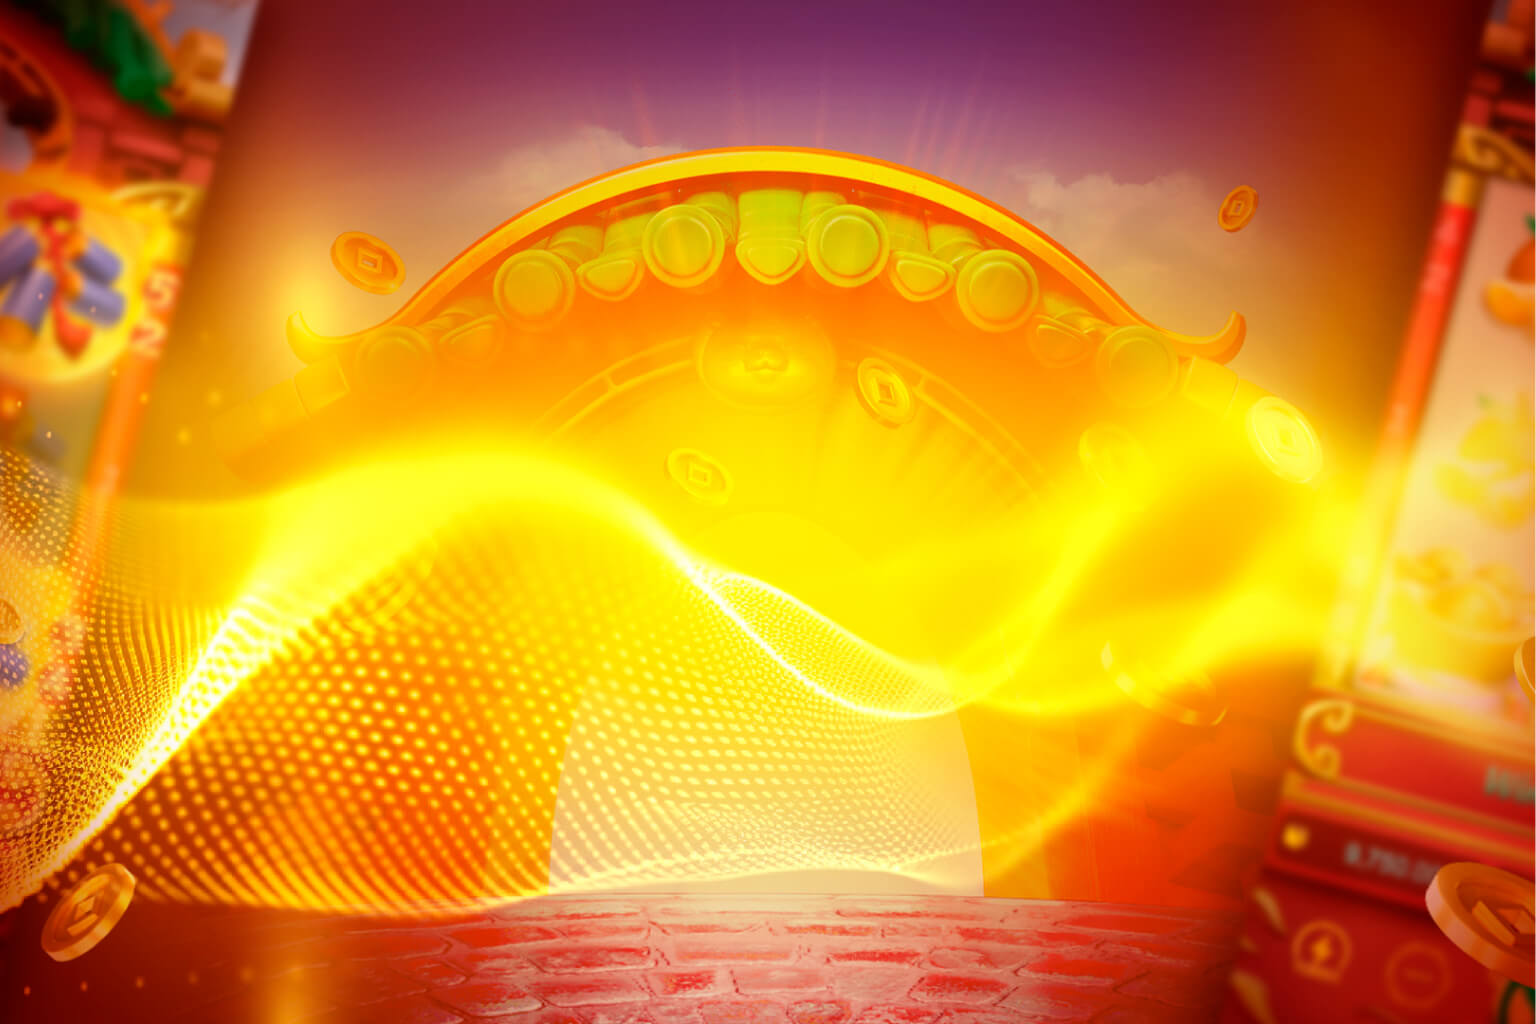
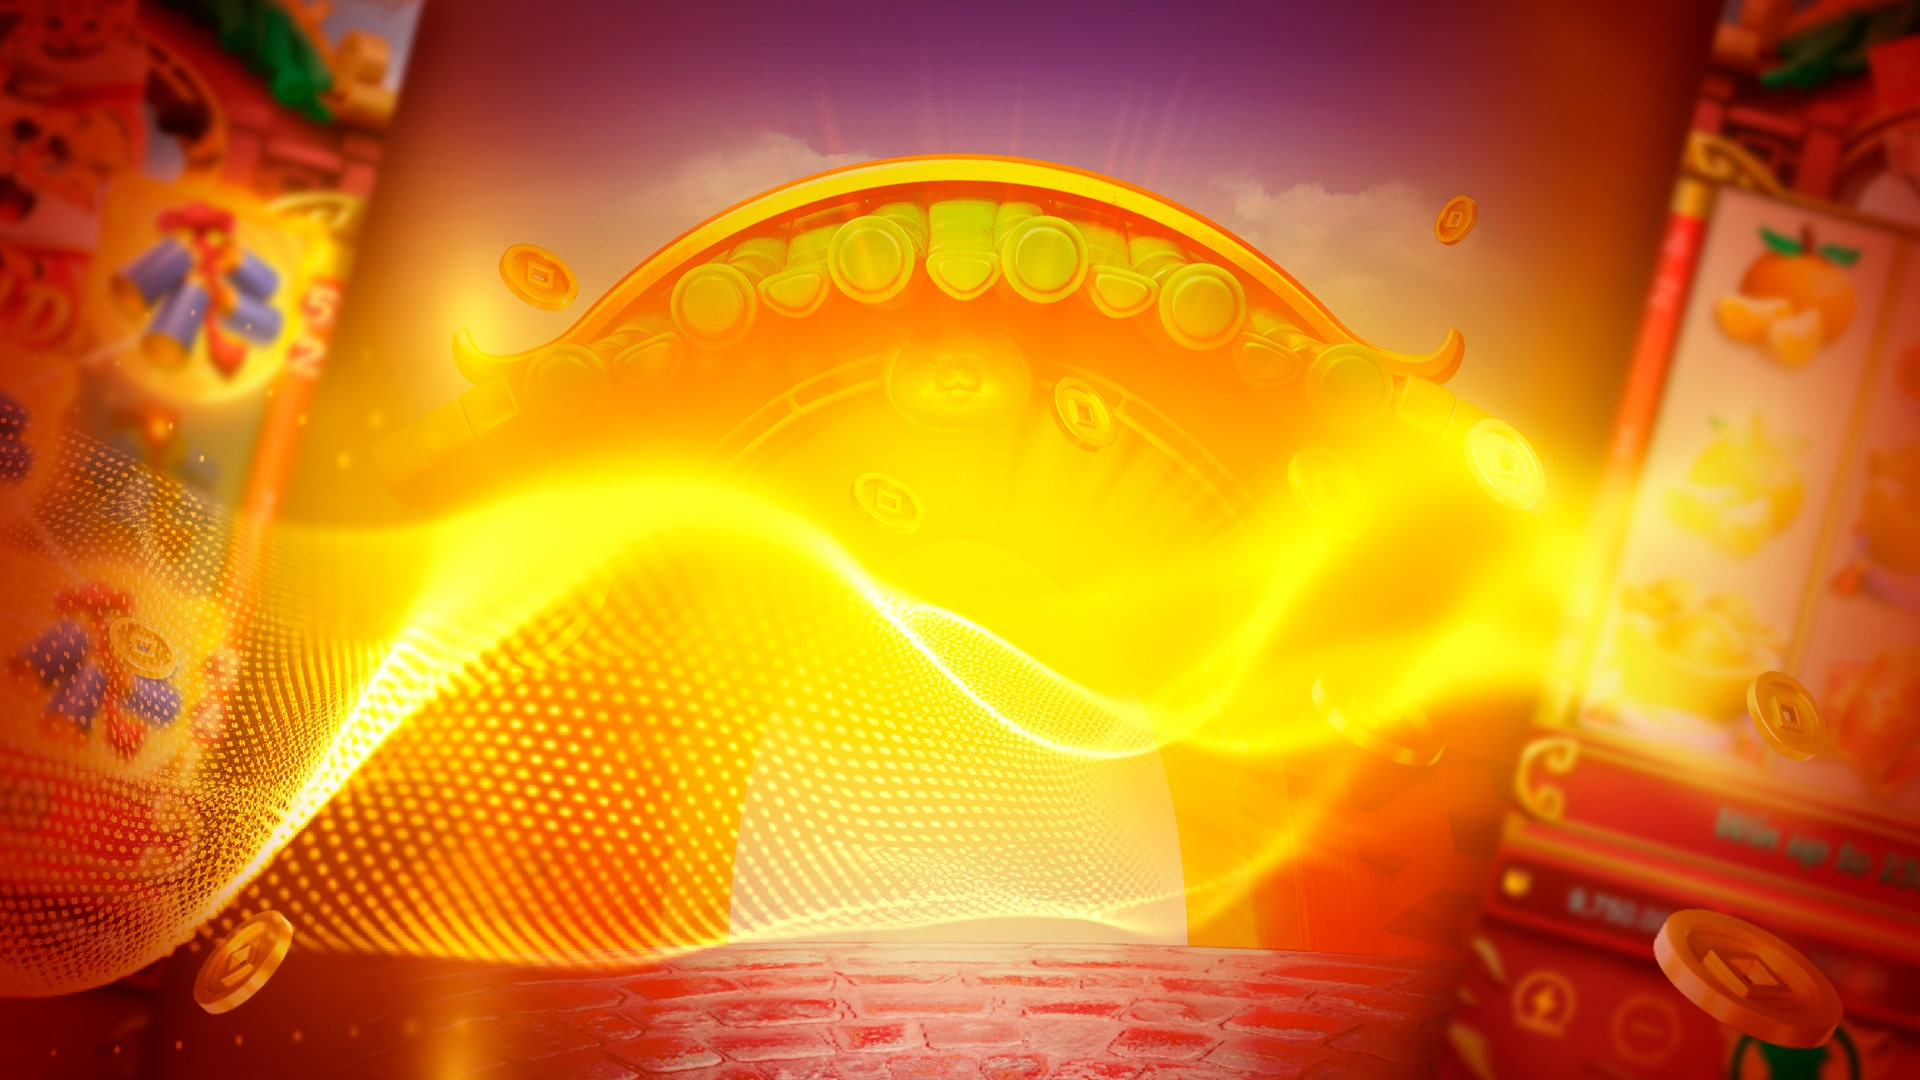
decor

diff --git a/src/styles/components/main-content.scss b/src/styles/components/main-content.scss
@@ -227,65 +227,103 @@
 }
 
 .main__coin-1-decor {
-  --aspect-ratio: 0.884;
+  --aspect-ratio: 1.15;
 
   position: absolute;
-  z-index: var(--z-common-decor);
-  bottom: 7%;
   aspect-ratio: var(--aspect-ratio);
 
-  @include bg-image('/img/decor/coin');
+  @include bg-image('/img/decor/coin-1');
 
   @media (orientation: portrait) {
-    display: none;
+    z-index: var(--z-girl-decor);
+    top: 19%;
+    left: calc(50% - var(--wheel-size-portrait) / 2);
+    width: min(27vw, vh(15) * var(--aspect-ratio));
+    transform: translateX(10%);
   }
 
   @media (orientation: landscape) {
+    z-index: var(--z-common-decor);
+    top: 33%;
     left: calc(50% - var(--wheel-size-landscape));
-    width: min(16vw, vh(30) * var(--aspect-ratio));
-    transform: translateX(-80%);
+    width: min(8vw, vh(13) * var(--aspect-ratio));
+    transform: translateX(-50%) rotate(-20deg);
   }
 }
 
 .main__coin-2-decor {
-  --aspect-ratio: 0.884;
+  --aspect-ratio: 0.59;
 
   position: absolute;
-  z-index: var(--z-default);
-  bottom: 18%;
   aspect-ratio: var(--aspect-ratio);
-  filter: blur(to-rem(3));
 
-  @include bg-image('/img/decor/coin');
+  @include bg-image('/img/decor/coin-2');
 
   @media (orientation: portrait) {
-    display: none;
+    z-index: var(--z-girl-decor);
+    top: 26%;
+    left: calc(50% + var(--wheel-size-portrait) * 0.3);
+    width: min(10vw, vh(11) * var(--aspect-ratio));
+    transform: translateX(20%);
   }
 
   @media (orientation: landscape) {
-    left: calc(50% + var(--wheel-size-landscape));
-    width: min(13vw, vh(21) * var(--aspect-ratio));
-    transform: rotate(255deg);
+    z-index: var(--z-common-decor);
+    bottom: 24%;
+    left: calc(50% + var(--wheel-size-landscape) * 0.9);
+    width: min(4vw, vh(11) * var(--aspect-ratio));
+    transform: translateX(-50%);
   }
 }
 
-.main__slot-decor {
+.main__slot-decor-1 {
   --aspect-ratio: 1;
 
   position: absolute;
   z-index: var(--z-common-decor);
-  bottom: 24%;
   aspect-ratio: var(--aspect-ratio);
+  filter: blur(to-rem(3))
+    drop-shadow(0 to-rem(4) to-rem(24) rgba(123, 0, 0, 0.5));
 
-  @include bg-image('/img/decor/slot');
+  @include bg-image('/img/decor/slot-decor-1');
 
   @media (orientation: portrait) {
-    display: none;
+    bottom: 0%;
+    left: calc(50% - var(--wheel-size-portrait) * 0.4);
+    width: min(20vw, vh(22) * var(--aspect-ratio));
+    transform: translateX(-20%);
   }
 
   @media (orientation: landscape) {
+    bottom: 24%;
+    left: calc(50% - var(--wheel-size-landscape));
+    width: min(16vw, vh(24) * var(--aspect-ratio));
+    transform: translateX(-80%);
+  }
+}
+
+.main__slot-decor-2 {
+  --aspect-ratio: 1;
+
+  position: absolute;
+  aspect-ratio: var(--aspect-ratio);
+  filter: blur(to-rem(5));
+
+  @include bg-image('/img/decor/slot-decor-2');
+
+  @media (orientation: portrait) {
+    z-index: var(--z-girl-decor);
+    top: 2%;
+    left: 50%;
+    width: min(50vw, vh(30) * var(--aspect-ratio));
+    transform: translateX(20%);
+  }
+
+  @media (orientation: landscape) {
+    z-index: var(--z-default);
+    top: 30%;
     left: calc(50% + var(--wheel-size-landscape));
-    width: min(12vw, vh(20) * var(--aspect-ratio));
-    transform: translateX(-20%);
+    width: min(21vw, vh(36) * var(--aspect-ratio));
+    transform: translateX(-15%);
   }
 }

diff --git a/src/partials/main-content.html b/src/partials/main-content.html
@@ -25,5 +25,6 @@
   <div class="main__girl-2-decor"></div>
   <div class="main__coin-1-decor"></div>
   <div class="main__coin-2-decor"></div>
-  <div class="main__slot-decor"></div>
+  <div class="main__slot-decor-1"></div>
+  <div class="main__slot-decor-2"></div>
 </main>
